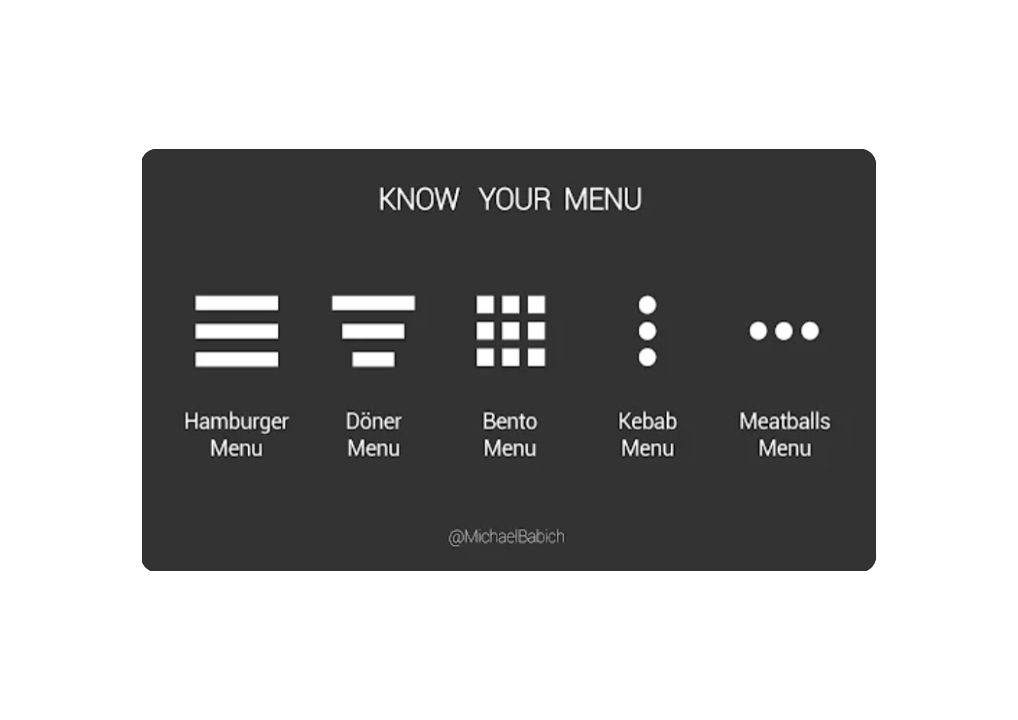
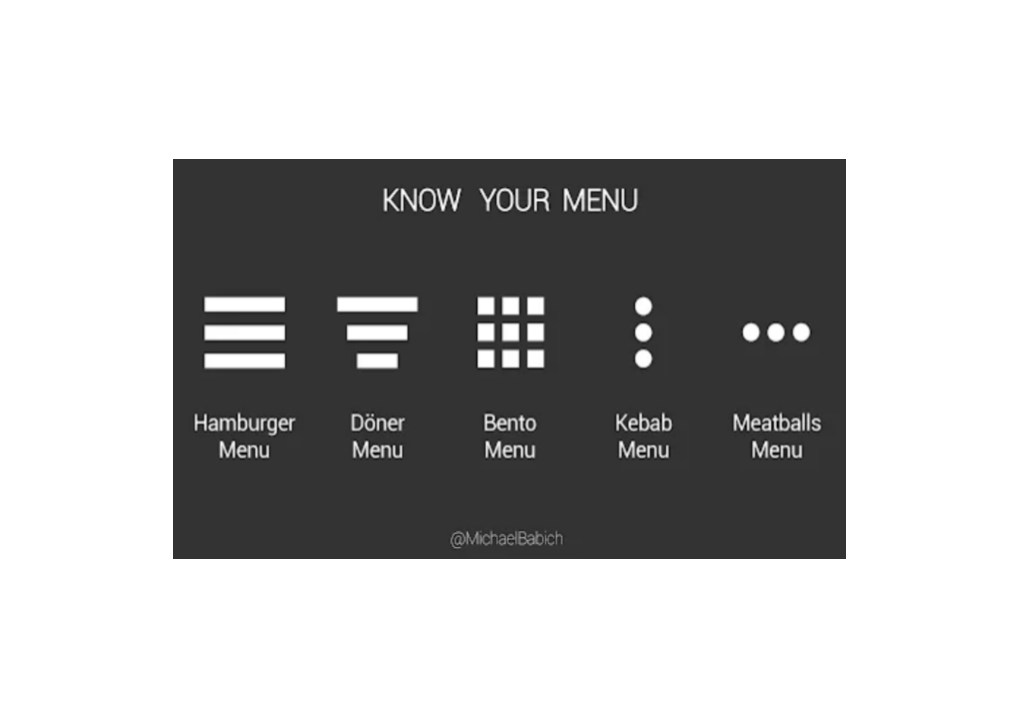
fix help menu image

diff --git a/pt/_posts/history/portuguese-history/germanic-invasion/2024-08-20-part4.md b/pt/_posts/history/portuguese-history/germanic-invasion/2024-08-20-part4.md
@@ -457,10 +457,10 @@ ol{
               </div>
                 <div class="coffee-footer"></div>
             </div>
-        </div>
-           <div class="image-container">            
-              <img src="{{/assets/img/posts/know-your-menus.png}}" alt="menus"> 
-            </div>
+        </div>                    
+              <img src="/assets/img/posts/know-your-menus.png" alt="menu"
+              style="display:block;width:80%;border:solid;margin:5px;margin-left:auto;margin-right:auto"
+              >            
             <p style="margin-top:1em">
               <span style="color:#5ba487">Clique/toque no texto nesta cor para exibir uma seção oculta com mais informações</span><br>
               <span style="color:#3389de">Observe que você pode clicar/tocar no texto desta cor para direcioná-lo às referências</span><br>

diff --git a/_posts/history/portuguese-history/germanic-invasion/2024-08-20-part4.md b/_posts/history/portuguese-history/germanic-invasion/2024-08-20-part4.md
@@ -459,9 +459,9 @@ ol{
                 <div class="coffee-footer"></div>
             </div>
         </div>
-            <div class="image-container">
-              <img src="https://i.stack.imgur.com/YIcbV.png" alt="menus">
-            </div>
+            <img src="/assets/img/posts/know-your-menus.png" alt="menu"
+              style="display:block;width:80%;border:solid;margin:5px;margin-left:auto;margin-right:auto"
+              >  
             <p style="margin-top:1em">
               <span style="color:#5ba487">Click/tap text in this color to display a hidden section with more information</span><br>
               <span style="color:#3389de">Note that you can click/tap on text of in this colour to route you to the references</span><br>
